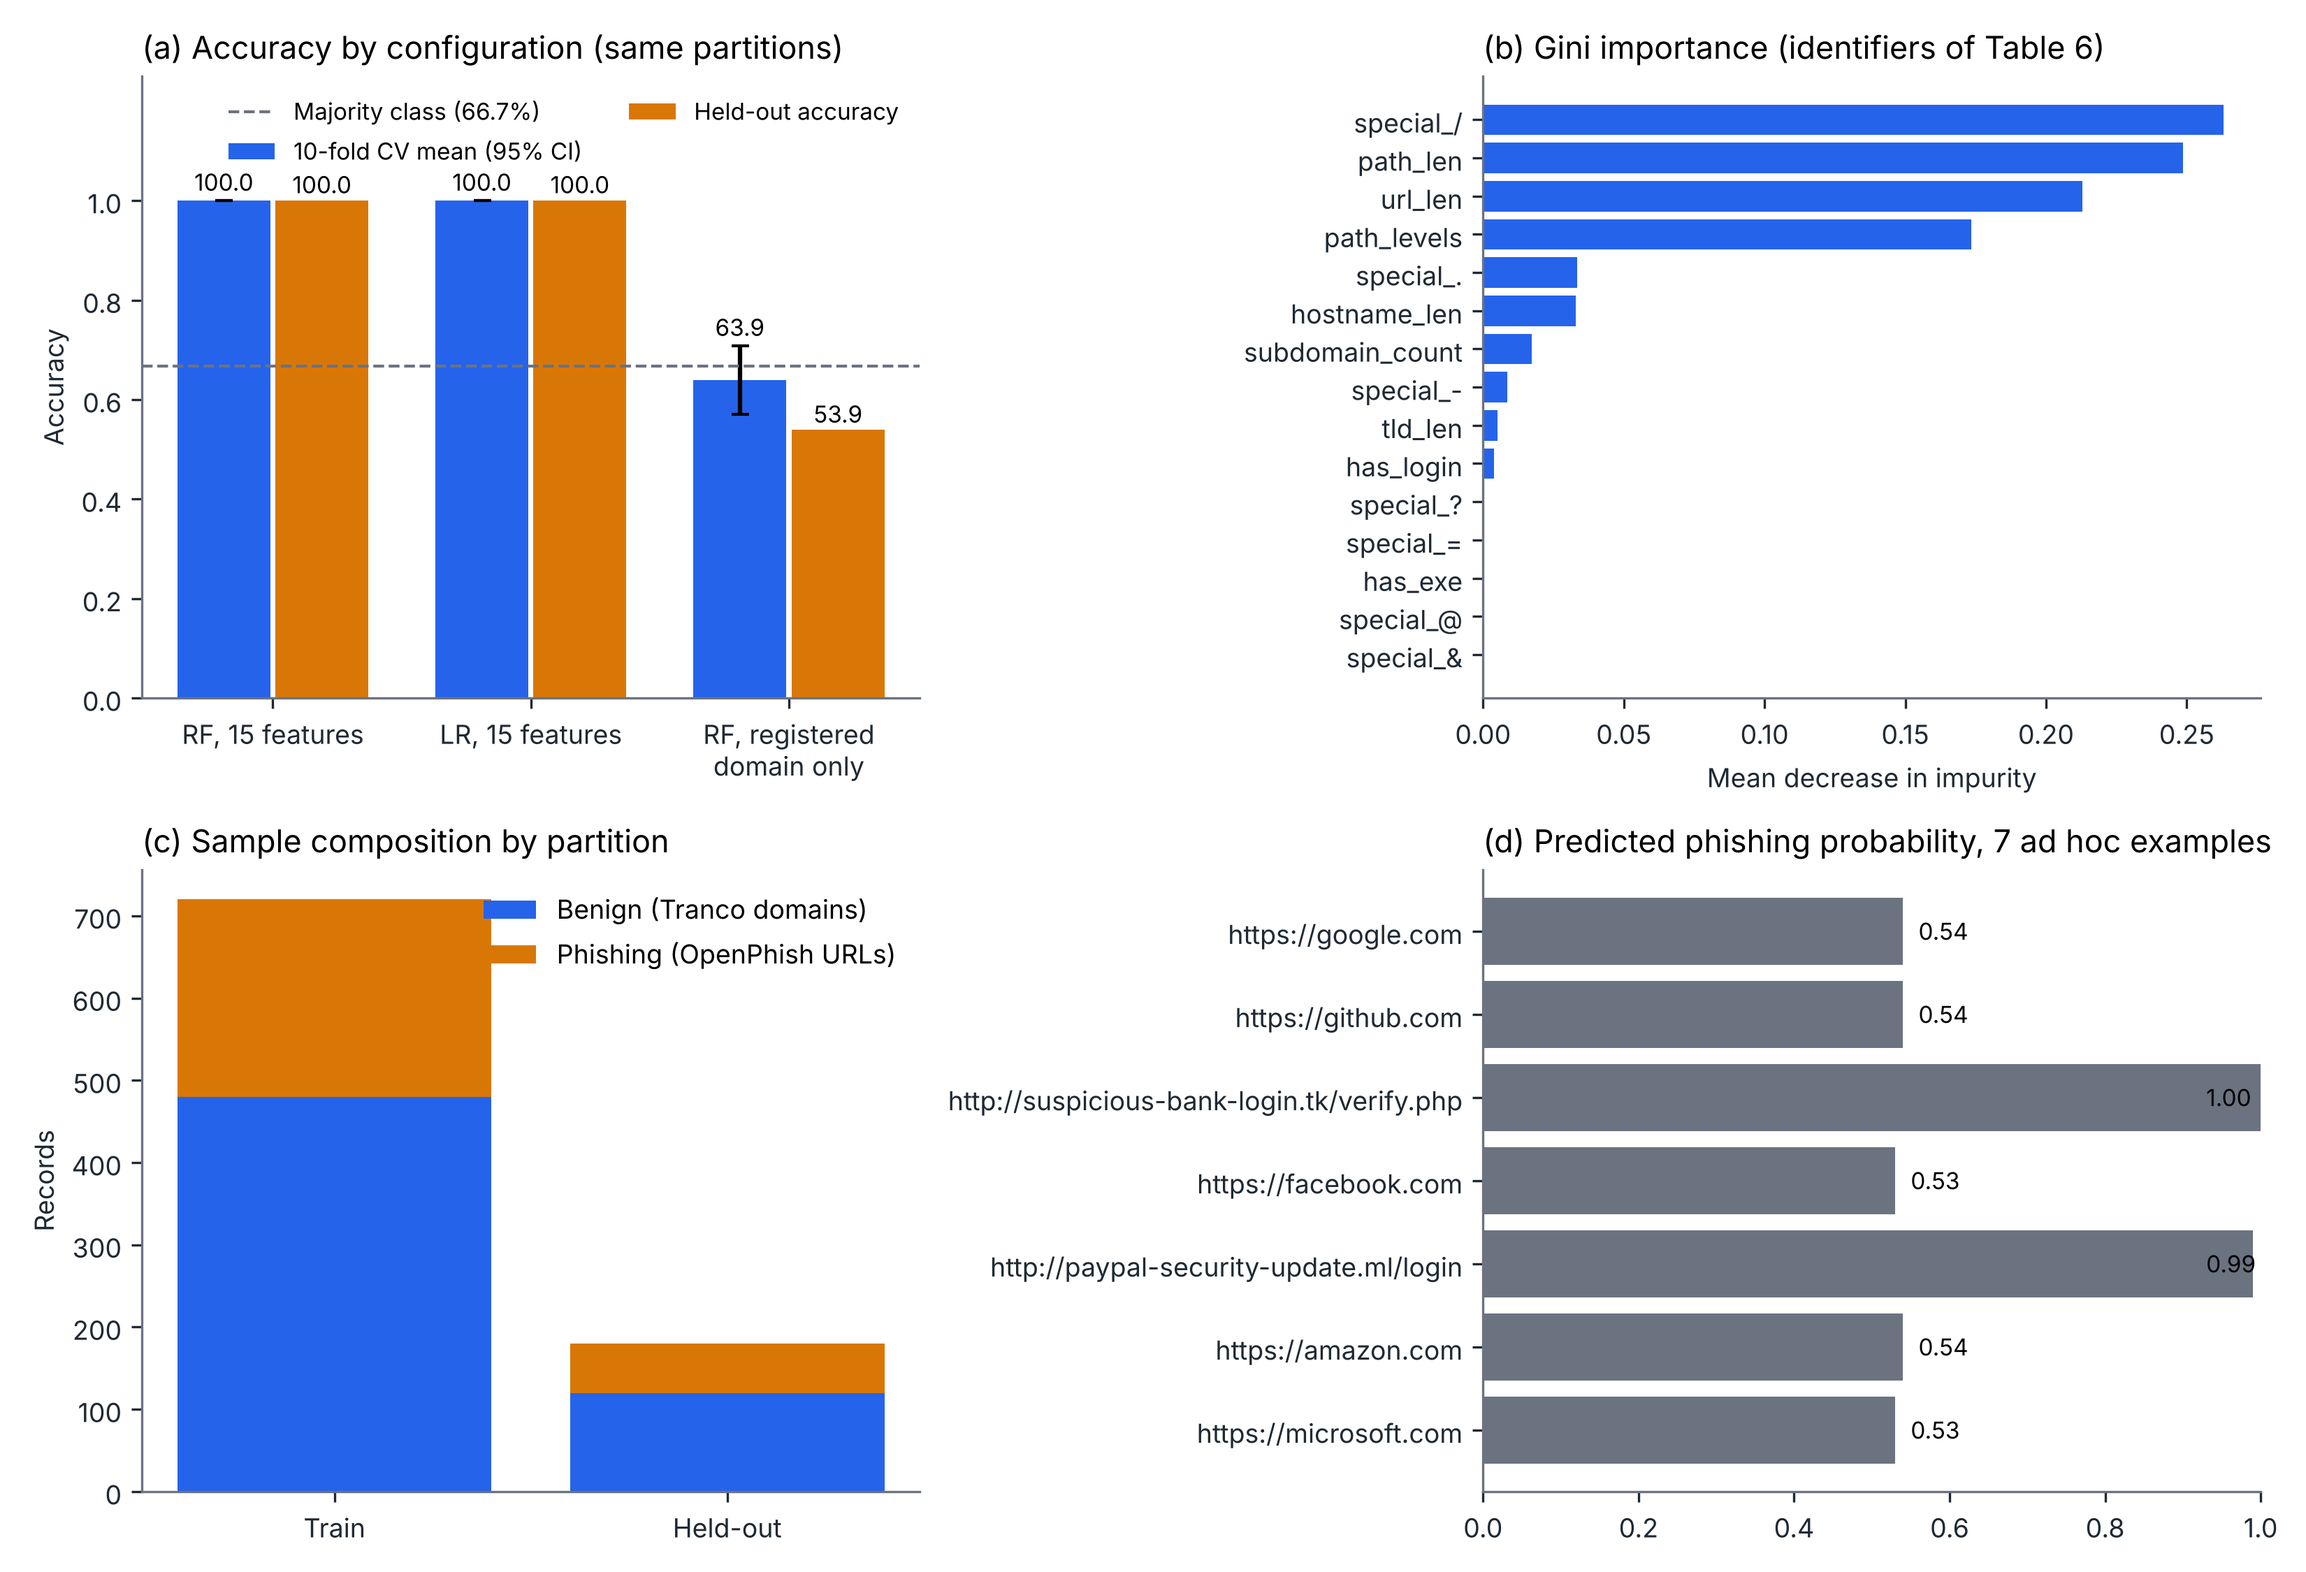
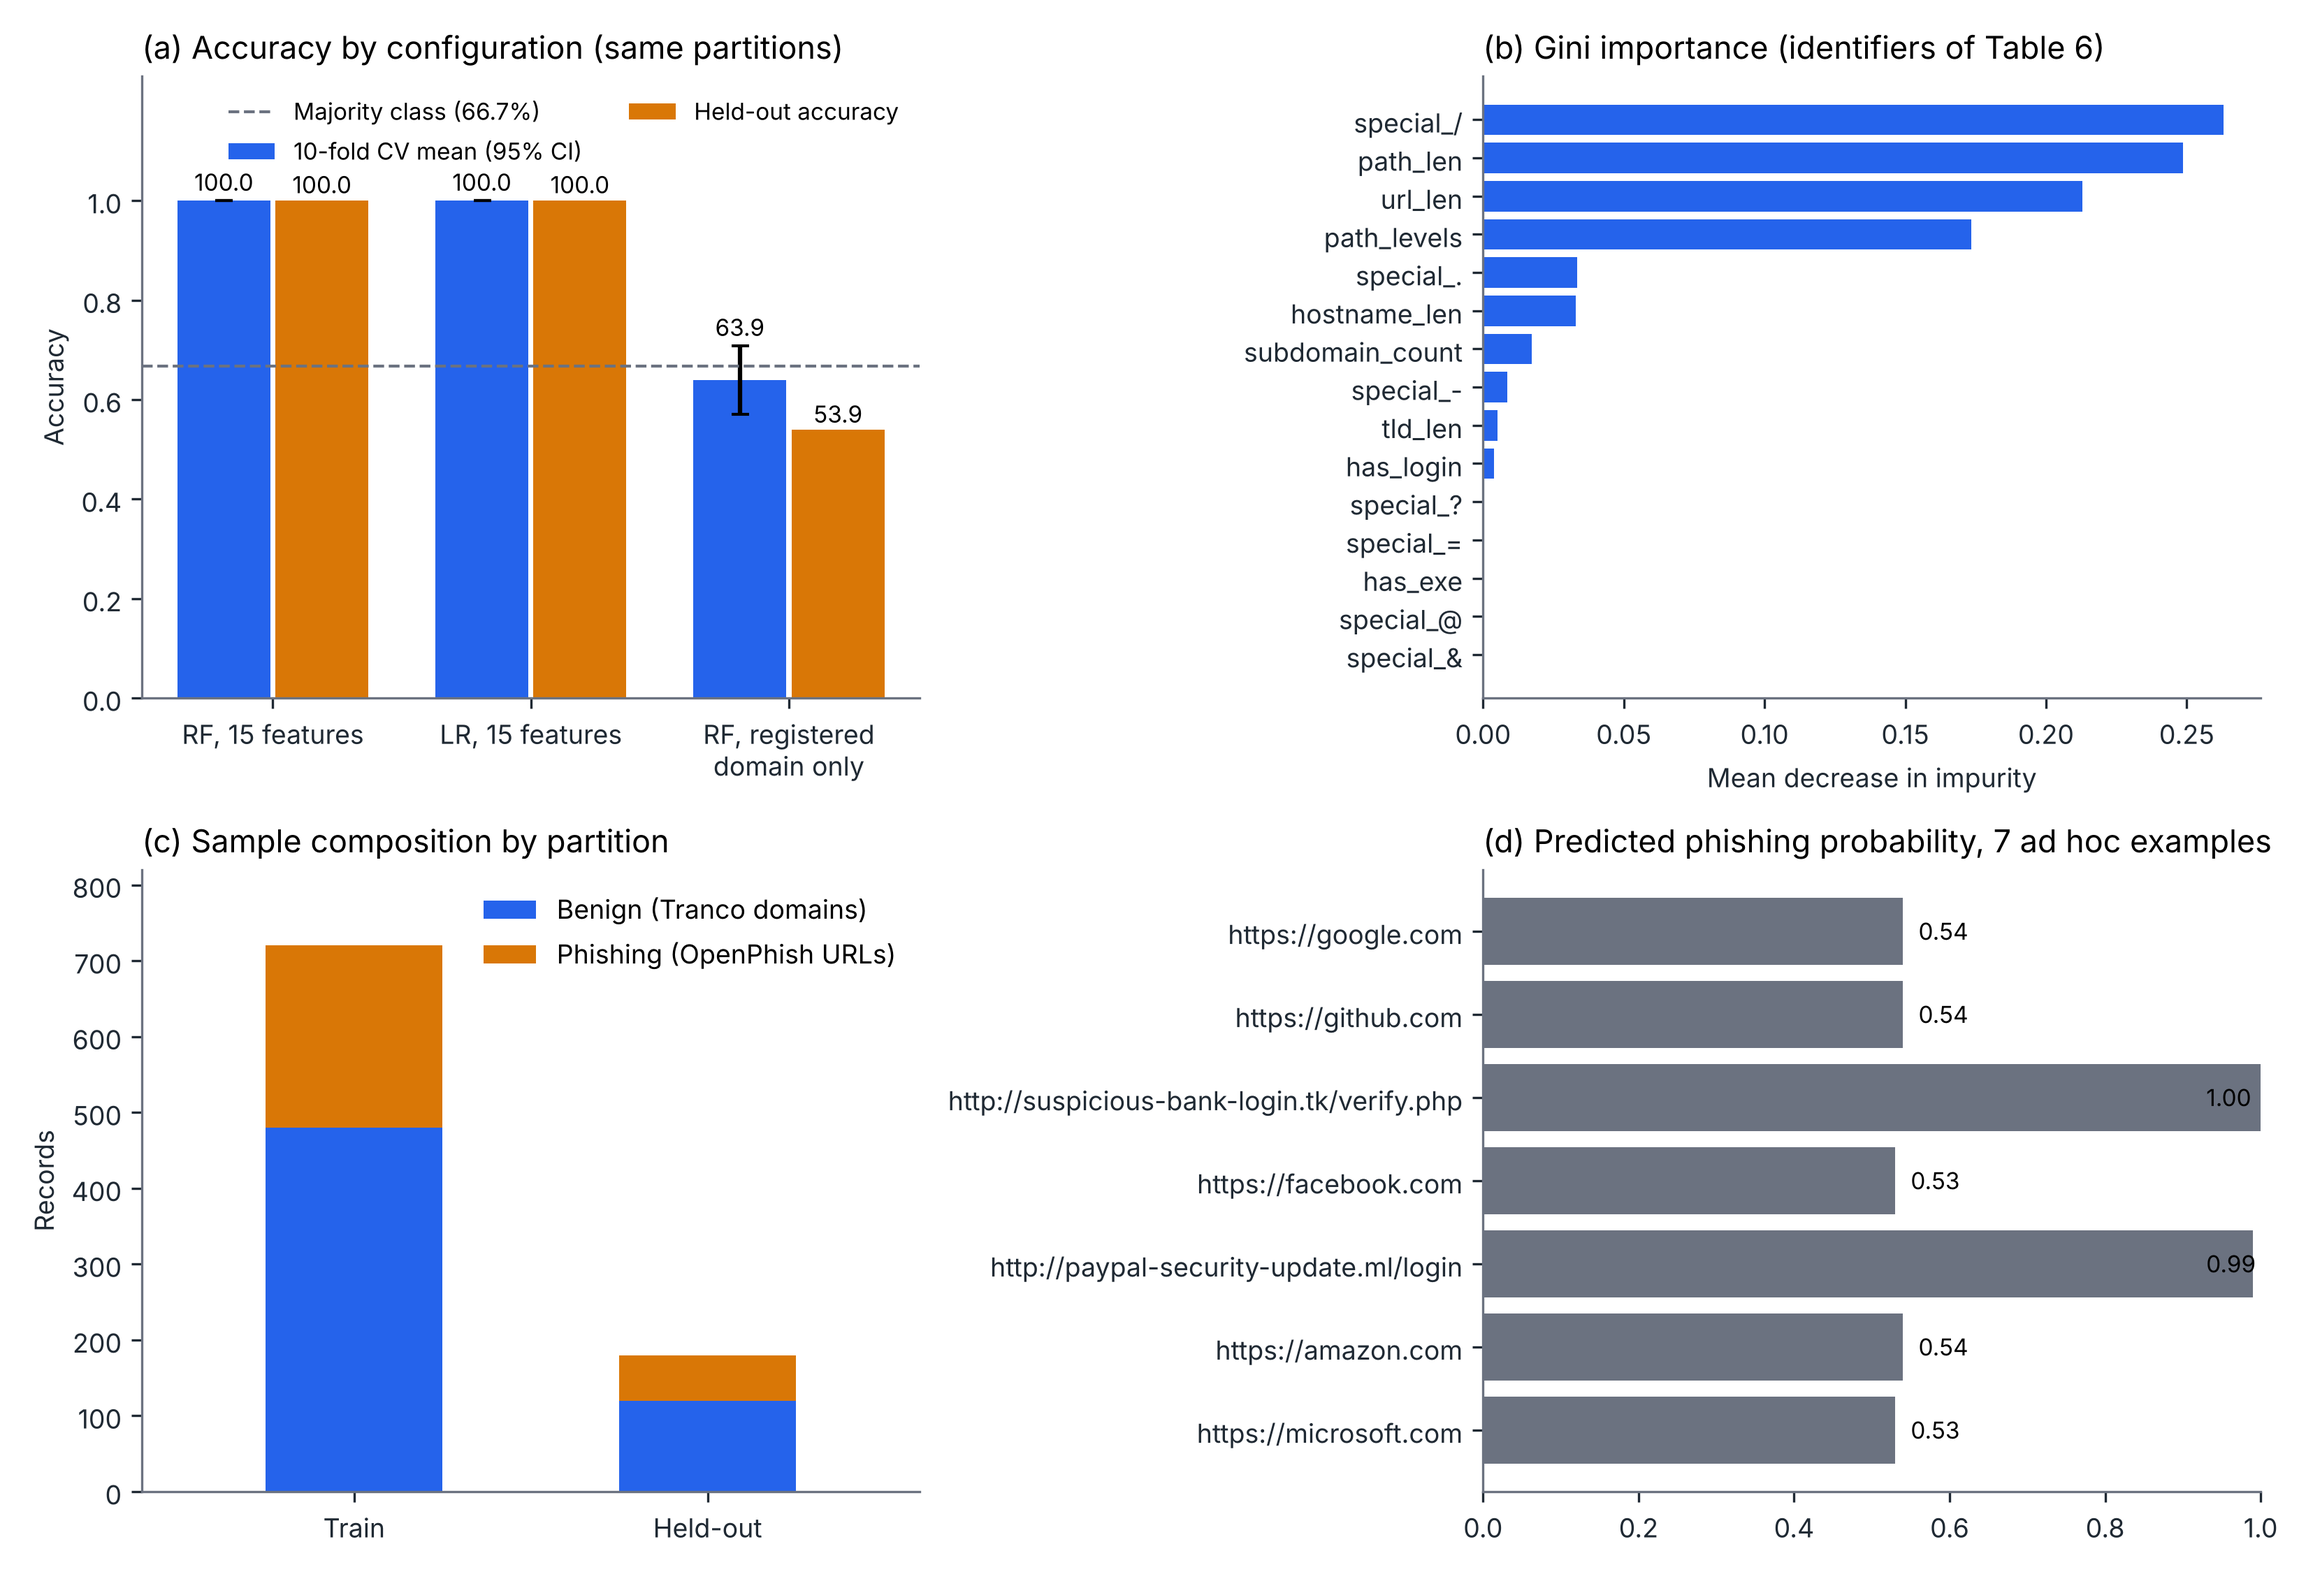
Figure 2: narrower bars and legend placement in panel (c)

diff --git a/train_classifier.py b/train_classifier.py
@@ -284,12 +284,14 @@ def make_figure(out, y):
     p = out["partition"]
     tr_ph = int((y == 1).sum()) - p["test_phishing"]
     tr_bn = p["train"] - tr_ph
-    c.bar(["Train", "Held-out"], [tr_bn, p["test_benign"]], color=c1, label="Benign (Tranco domains)")
-    c.bar(["Train", "Held-out"], [tr_ph, p["test_phishing"]], bottom=[tr_bn, p["test_benign"]],
+    c.bar(["Train", "Held-out"], [tr_bn, p["test_benign"]], width=0.5, color=c1, label="Benign (Tranco domains)")
+    c.bar(["Train", "Held-out"], [tr_ph, p["test_phishing"]], width=0.5, bottom=[tr_bn, p["test_benign"]],
           color=c2, label="Phishing (OpenPhish URLs)")
     c.set_title("(c) Sample composition by partition", loc="left")
     c.set_ylabel("Records")
-    c.legend(frameon=False)
+    c.set_xlim(-0.6, 1.6)
+    c.set_ylim(0, 820)
+    c.legend(frameon=False, loc="upper right")
 
     d = ax[1, 1]
     ad = list(out["adhoc_phishing_probability"].items())
